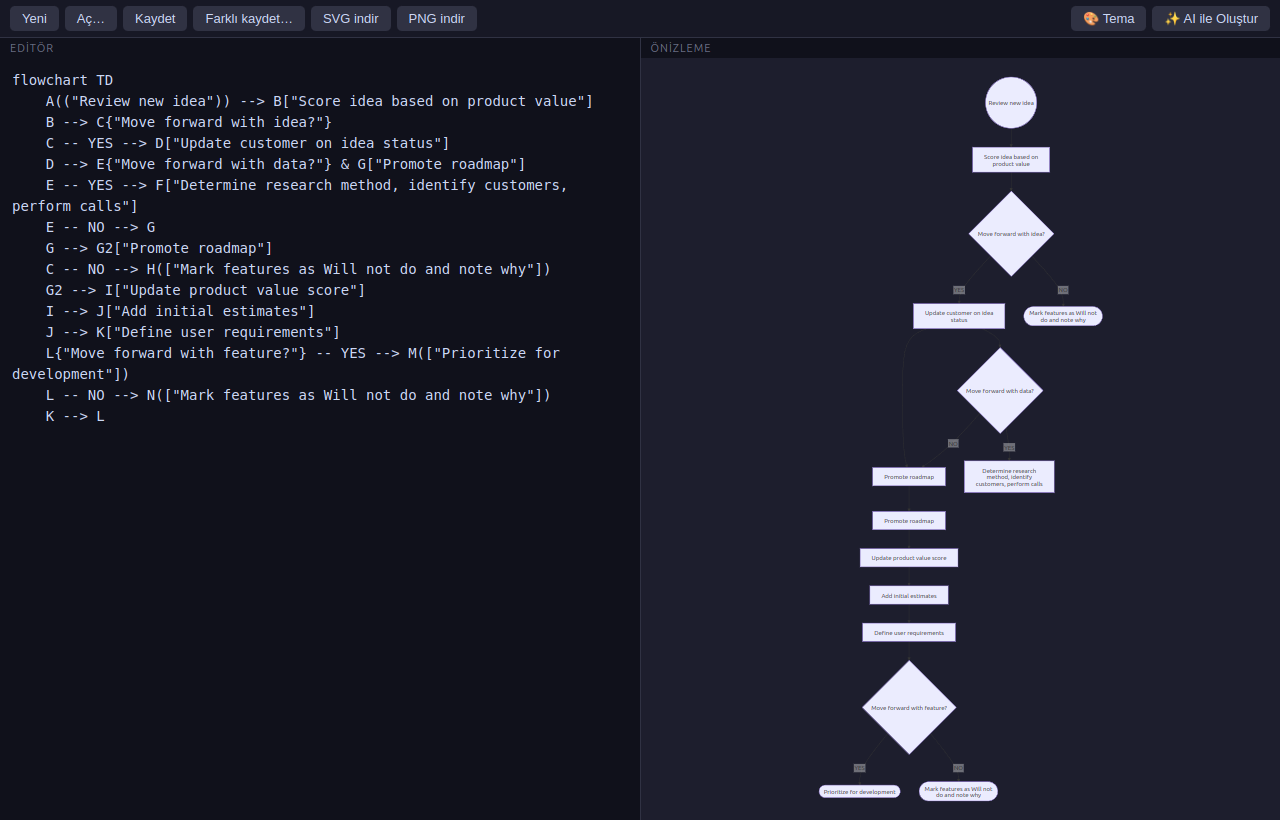
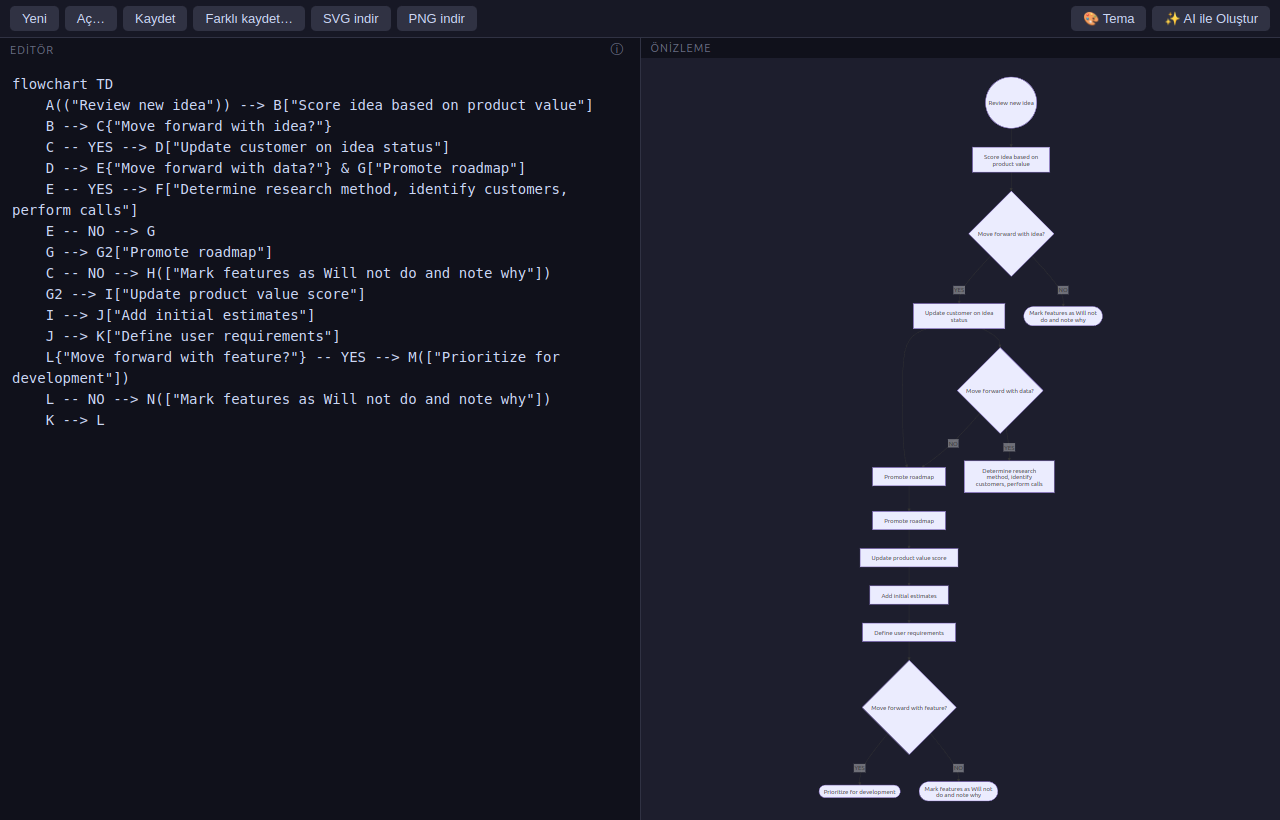
Editör başlığına ⓘ kılavuz butonu: Mermaid yazım örnekleri (8 tip) + 'Editöre al'

Changed region(s): [[0.0, 0.0915, 0.4688, 0.5183]]

diff --git a/renderer.html b/renderer.html
@@ -65,6 +65,18 @@
   .theme-name { font-size: 12px; color: #cdd6f4; margin-bottom: 6px; }
   .theme-preview { background: #11111b; border-radius: 6px; overflow: hidden; min-height: 100px; display: flex; align-items: center; justify-content: center; }
   .theme-preview svg { max-width: 100%; height: auto; }
+  /* ⓘ bilgi butonu */
+  .info-btn { background: none; border: none; color: #6c7086; font-size: 13px; cursor: pointer; padding: 0 6px; border-radius: 4px; line-height: 1.2; }
+  .info-btn:hover { color: #cdd6f4; background: #313244; }
+  /* Bilgi modalı */
+  .info-box { width: 860px; }
+  .info-body { overflow-y: auto; max-height: 72vh; padding-right: 6px; }
+  .info-body h4 { color: #cdd6f4; margin: 14px 0 6px; font-size: 14px; }
+  .info-body p { color: #a6adc8; font-size: 12.5px; margin: 4px 0; line-height: 1.5; }
+  .info-body pre { background: #11111b; border: 1px solid #313244; border-radius: 8px; padding: 10px 12px; overflow-x: auto; font-size: 12.5px; line-height: 1.5; margin: 6px 0; }
+  .info-body code { color: #a6e3a1; font-family: 'JetBrains Mono', monospace; }
+  .info-load { background: #313244; color: #cdd6f4; border: none; border-radius: 5px; padding: 4px 12px; font-size: 12px; cursor: pointer; margin-bottom: 8px; }
+  .info-load:hover { background: #45475a; }
 </style>
 </head>
 <body>
@@ -80,7 +92,10 @@
   </div>
   <div id="main">
     <div class="pane">
-      <div class="pane-title">Editör</div>
+      <div class="pane-title" style="display:flex;justify-content:space-between;align-items:center">
+        <span>Editör</span>
+        <button id="btn-info" class="info-btn" title="Mermaid yazım kılavuzu">ⓘ</button>
+      </div>
       <textarea id="editor" spellcheck="false" placeholder="Mermaid kodu yaz veya yapıştır…&#10;örn: flowchart TD&#10;  A[Başla] --&gt; B[Bitir]"></textarea>
     </div>
     <div class="split"></div>
@@ -159,6 +174,91 @@
         </div>
       </div>
       <div id="ai-error"></div>
+    </div>
+  </div>
+
+  <!-- Mermaid yazım kılavuzu modalı -->
+  <div id="info-modal" class="modal hidden">
+    <div class="modal-box info-box">
+      <div class="modal-head">
+        <span>📘 Mermaid Yazım Kılavuzu</span>
+        <button id="info-close" title="Kapat">✕</button>
+      </div>
+      <div class="info-body">
+        <h4>1. Akış Şeması (Flowchart)</h4>
+        <p><code>TD</code> = yukarıdan aşağı, <code>LR</code> = soldan sağa. Düğüm şekilleri: <code>[ ]</code> dikdörtgen, <code>{ }</code> karar, <code>( )</code> yuvarlak, <code>(( ))</code> daire. Kenarlar: <code>--&gt;</code> ok, <code>---</code> çizgi, <code>-.→</code> kesikli, <code>==&gt;</code> kalın. Kenar etiketi: <code>--&gt;|metin|</code></p>
+        <pre><code>flowchart TD
+  A[Başla] --&gt; B{Karar}
+  B --&gt;|Evet| C[İşlem]
+  B --&gt;|Hayır| D[Bitir]</code></pre>
+        <button class="info-load" data-example="flow">✏ Editöre al</button>
+
+        <h4>2. Sıralama Diyagramı (Sequence)</h4>
+        <p><code>-&gt;&gt;</code> düz mesaj, <code>--&gt;&gt;</code> kesikli yanıt, <code>Note over</code> ile açıklama.</p>
+        <pre><code>sequenceDiagram
+  participant K as Kullanıcı
+  participant S as Sunucu
+  K-&gt;&gt;S: Giriş isteği
+  S--&gt;&gt;K: Token döner</code></pre>
+        <button class="info-load" data-example="seq">✏ Editöre al</button>
+
+        <h4>3. Sınıf Diyagramı (Class)</h4>
+        <p>Kalıtım: <code>&lt;|--</code>, uygulama: <code>..|&gt;</code>, ilişki: <code>--</code>, kompozisyon: <code>*--</code></p>
+        <pre><code>classDiagram
+  class Hayvan {
+    +String ad
+    +sesCikar()
+  }
+  class Kedi
+  Hayvan &lt;|-- Kedi</code></pre>
+        <button class="info-load" data-example="class">✏ Editöre al</button>
+
+        <h4>4. Durum Diyagramı (State)</h4>
+        <pre><code>stateDiagram-v2
+  [*] --&gt; Boşta
+  Boşta --&gt; Çalışıyor: başlat
+  Çalışıyor --&gt; [*]: dur</code></pre>
+        <button class="info-load" data-example="state">✏ Editöre al</button>
+
+        <h4>5. Varlık İlişki Diyagramı (ER)</h4>
+        <p>Kardinalite: <code>||--o{</code> (bir-çok), <code>||--||</code> (bir-bir), <code>}o--o{</code> (çok-çok)</p>
+        <pre><code>erDiagram
+  KULLANICI ||--o{ SIPARIS : "verir"
+  SIPARIS ||--|{ KALEM : "içerir"</code></pre>
+        <button class="info-load" data-example="er">✏ Editöre al</button>
+
+        <h4>6. Gantt (Zaman Çizelgesi)</h4>
+        <pre><code>gantt
+  title Proje Planı
+  dateFormat YYYY-MM-DD
+  section Tasarım
+    Arayüz: 2026-01-01, 7d
+  section Geliştirme
+    API: 2026-01-08, 14d</code></pre>
+        <button class="info-load" data-example="gantt">✏ Editöre al</button>
+
+        <h4>7. Zihin Haritası (Mindmap) &amp; Pasta (Pie)</h4>
+        <pre><code>mindmap
+  root((Proje))
+    Backend
+      API
+      Veritabanı
+    Frontend
+      Arayüz
+      State</code></pre>
+        <button class="info-load" data-example="mindmap">✏ Editöre al</button>
+        <pre><code>pie
+  title Kullanım Dağılımı
+  "Web" : 60
+  "Mobil" : 40</code></pre>
+        <button class="info-load" data-example="pie">✏ Editöre al</button>
+
+        <h4>İpucu</h4>
+        <p>• Düğüm etiketleri kısa tut, karmaşık açıklamaları kenar etiketlerine yaz.<br>
+        • <code>subgraph</code> ile gruplar oluştur.<br>
+        • Koyu tema için sağ üstteki <b>🎨 Tema</b> butonunu kullan.<br>
+        • Kodu beğenmediysen <b>✨ AI ile Oluştur</b> ile doğal dilden ürettir.</p>
+      </div>
     </div>
   </div>
 

diff --git a/renderer.js b/renderer.js
@@ -137,6 +137,7 @@ window.addEventListener('keydown', (e) => {
     if (!aiSettingsModal.classList.contains('hidden')) aiSettingsModal.classList.add('hidden');
     if (!aiTaskModal.classList.contains('hidden')) aiTaskModal.classList.add('hidden');
     if (!themeModal.classList.contains('hidden')) themeModal.classList.add('hidden');
+    if (!infoModal.classList.contains('hidden')) infoModal.classList.add('hidden');
   }
 });
 
@@ -148,6 +149,33 @@ window.addEventListener('beforeunload', (e) => {
 });
 
 window.api.onOpenFile((p) => loadFile(p));
+
+// ----- Mermaid yazım kılavuzu (ⓘ) -----
+const infoModal = document.getElementById('info-modal');
+const INFO_EXAMPLES = {
+  flow: 'flowchart TD\n  A[Başla] --> B{Karar}\n  B -->|Evet| C[İşlem]\n  B -->|Hayır| D[Bitir]',
+  seq: 'sequenceDiagram\n  participant K as Kullanıcı\n  participant S as Sunucu\n  K->>S: Giriş isteği\n  S-->>K: Token döner',
+  class: 'classDiagram\n  class Hayvan {\n    +String ad\n    +sesCikar()\n  }\n  class Kedi\n  Hayvan <|-- Kedi',
+  state: 'stateDiagram-v2\n  [*] --> Boşta\n  Boşta --> Çalışıyor: başlat\n  Çalışıyor --> [*]: dur',
+  er: 'erDiagram\n  KULLANICI ||--o{ SIPARIS : "verir"\n  SIPARIS ||--|{ KALEM : "içerir"',
+  gantt: 'gantt\n  title Proje Planı\n  dateFormat YYYY-MM-DD\n  section Tasarım\n    Arayüz: 2026-01-01, 7d\n  section Geliştirme\n    API: 2026-01-08, 14d',
+  mindmap: 'mindmap\n  root((Proje))\n    Backend\n      API\n      Veritabanı\n    Frontend\n      Arayüz\n      State',
+  pie: 'pie\n  title Kullanım Dağılımı\n  "Web" : 60\n  "Mobil" : 40',
+};
+
+document.getElementById('btn-info').onclick = () => infoModal.classList.remove('hidden');
+document.getElementById('info-close').onclick = () => infoModal.classList.add('hidden');
+infoModal.addEventListener('click', (e) => { if (e.target === infoModal) infoModal.classList.add('hidden'); });
+document.querySelectorAll('.info-load').forEach((btn) => {
+  btn.onclick = () => {
+    const code = INFO_EXAMPLES[btn.dataset.example];
+    if (!code) return;
+    editor.value = code;
+    dirty = true;
+    infoModal.classList.add('hidden');
+    renderPreview();
+  };
+});
 
 // ----- Tema seçimi (resimli önizleme popup'ı) -----
 const themeModal = document.getElementById('theme-modal');
